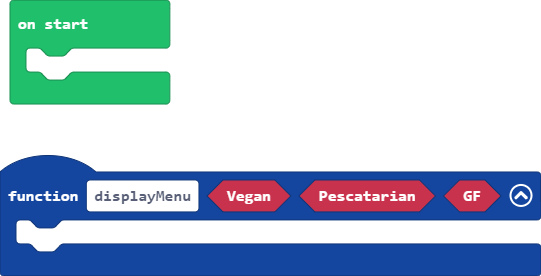
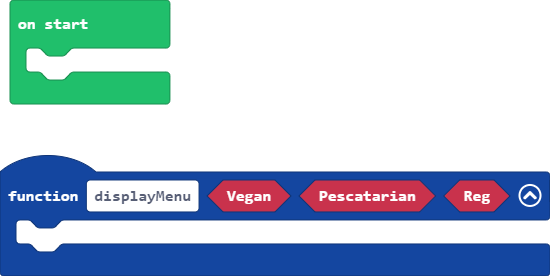
Update main.blocks, main.ts

diff --git a/main.ts b/main.ts
@@ -1,3 +1,3 @@
-function displayMenu (Vegan: boolean, Pescatarian: boolean, GF: boolean) {
+function displayMenu (Vegan: boolean, Pescatarian: boolean, Reg: boolean) {
 	
 }
